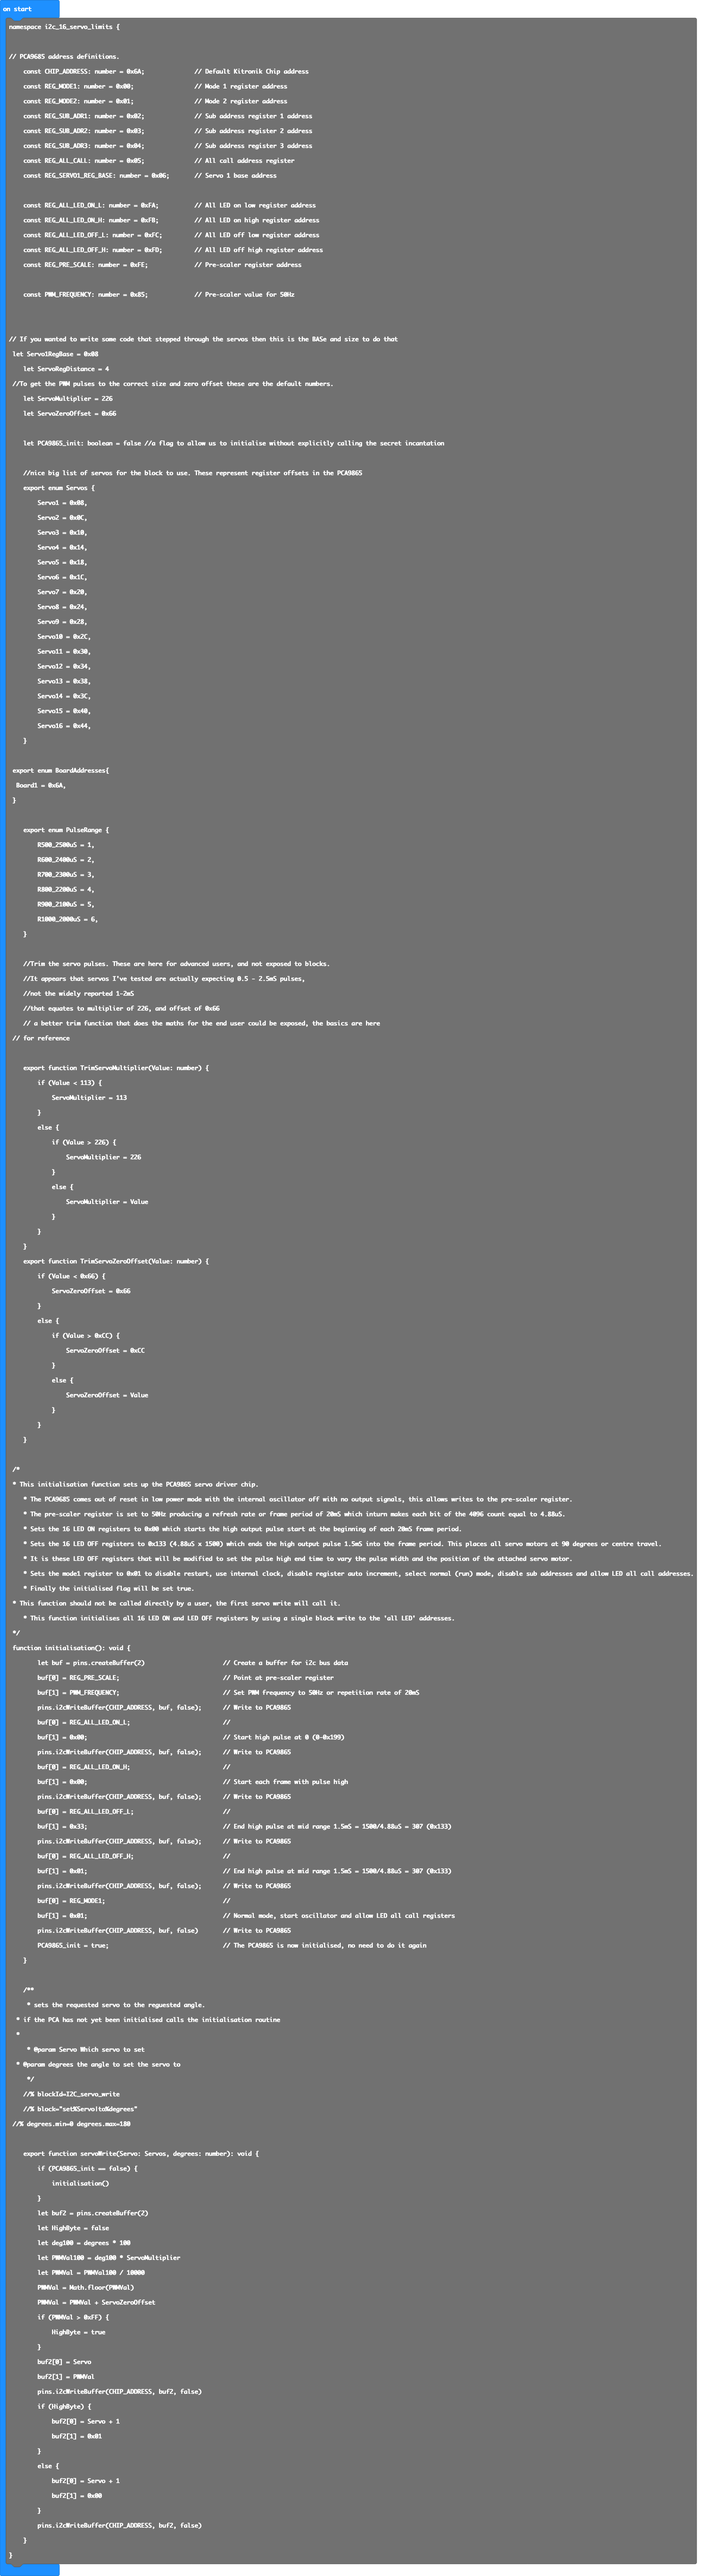
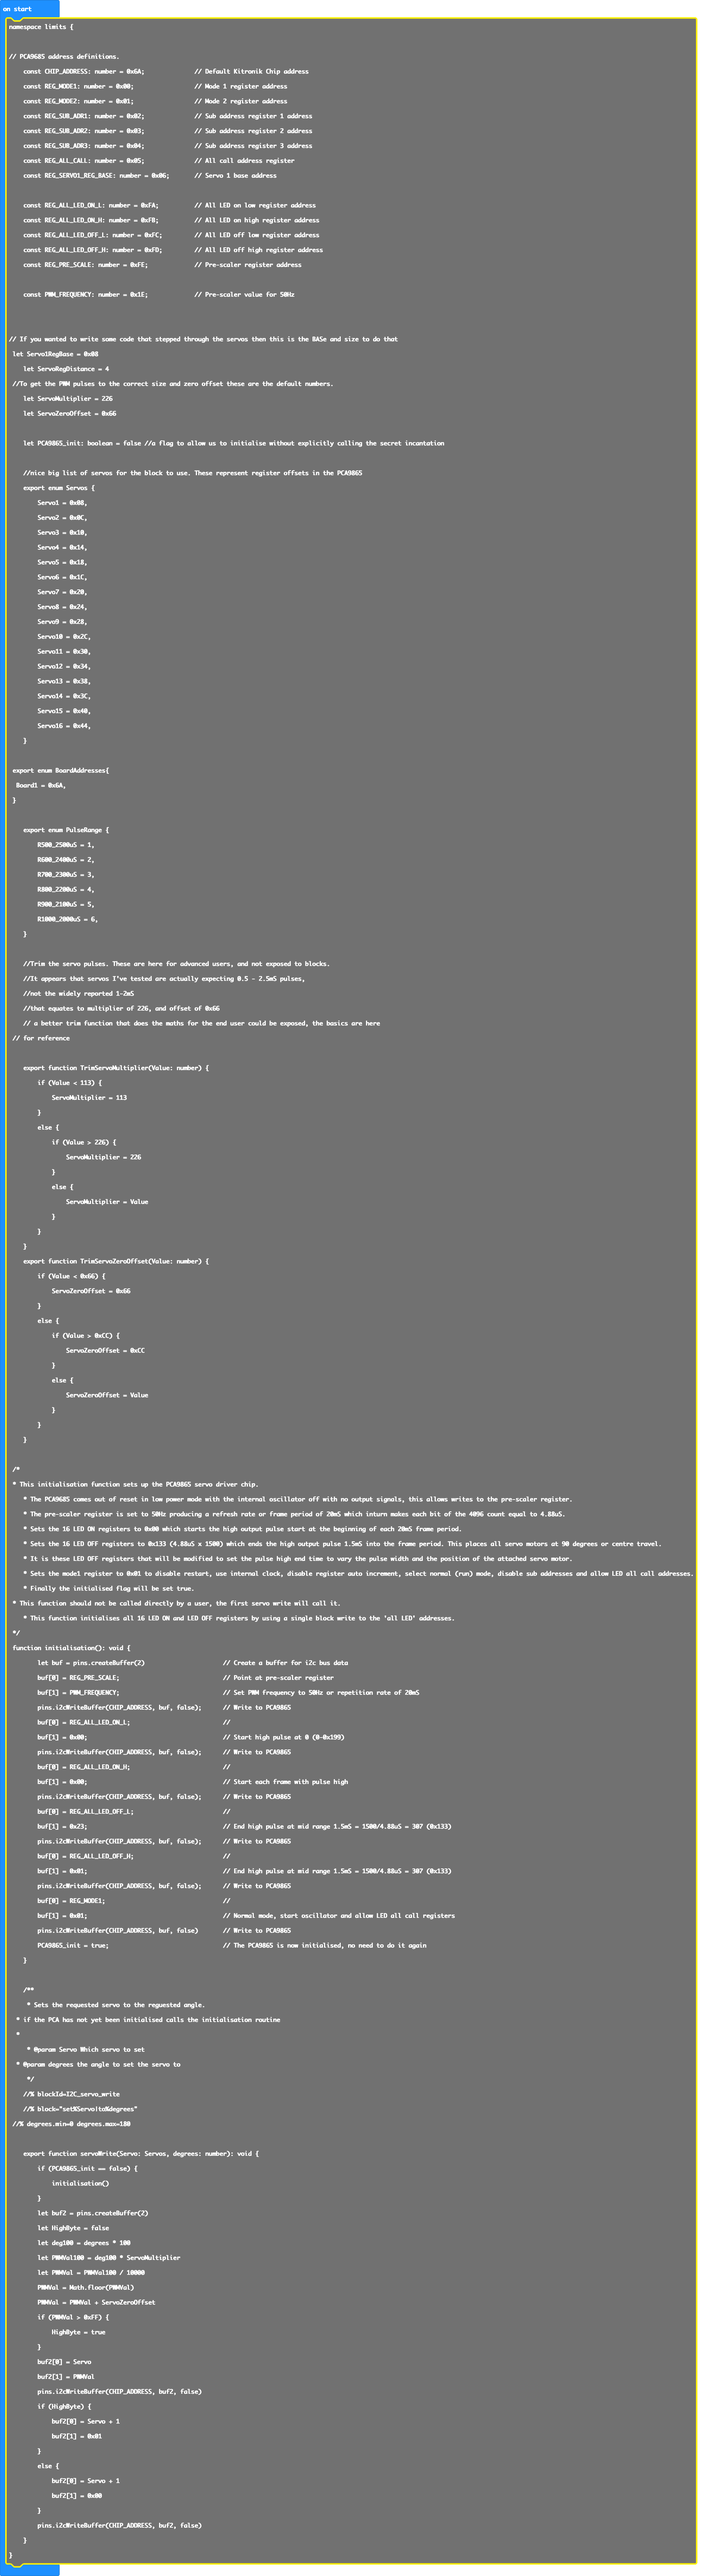
Update main.blocks, main.ts

diff --git a/main.ts b/main.ts
@@ -7,7 +7,7 @@
  * 1mS - 2mS (so called industry default standard), 0.9mS - 2.1mS, 0.8mS - 2.2mS, 0.7mS - 2.3mS, 0.6mS - 2.4mS and 0.5mS - 2.5mS. 
  * The PWM frequency is set to 50Hz making each bit of the PCA9685 4096 count equal to 4.88uS
  */
-//% weight=100 color=#00A654 icon="\uf085" block="I2C 16ch Servo Limits"
+//% weight=100 color=#10A654 icon="\uf085" block="Limits"
 namespace limits {
 
 // PCA9685 address definitions. 
@@ -36,9 +36,9 @@ namespace limits {
     let ServoMultiplier = 226
     let ServoZeroOffset = 0x66
 
-    let PCA9865_init: boolean = false //a flag to allow us to initialise without explicitly calling the secret incantation
+    let PCA9685_init: boolean = false //a flag to allow us to initialise without explicitly calling the secret incantation
 
-    //nice big list of servos for the block to use. These represent register offsets in the PCA9865
+    //nice big list of servos for the block to use. These represent register offsets in the PCA9685
     export enum Servos {
         Servo1 = 0x08,
         Servo2 = 0x0C,
@@ -137,12 +137,12 @@ namespace limits {
         buf[0] = REG_MODE1;                                 //
         buf[1] = 0x01;                                      // Normal mode, start oscillator and allow LED all call registers
         pins.i2cWriteBuffer(CHIP_ADDRESS, buf, false)       // Write to PCA9865
-        PCA9865_init = true;                                // The PCA9865 is now initialised, no need to do it again
+        PCA9685_init = true;                                // The PCA9865 is now initialised, no need to do it again
     }
 	
     /**
      * Sets the requested servo to the reguested angle.
-	 * if the PCA has not yet been initialised calls the initialisation routine
+	 * If the PCA9685 has not yet been initialised calls the initialisation routine
 	 *
      * @param Servo Which servo to set
 	 * @param degrees the angle to set the servo to
@@ -152,7 +152,7 @@ namespace limits {
 	//% degrees.min=0 degrees.max=180
 	
     export function servoWrite(Servo: Servos, degrees: number): void {
-        if (PCA9865_init == false) {
+        if (PCA9685_init == false) {
             initialisation()
         }
         let buf = pins.createBuffer(2)
